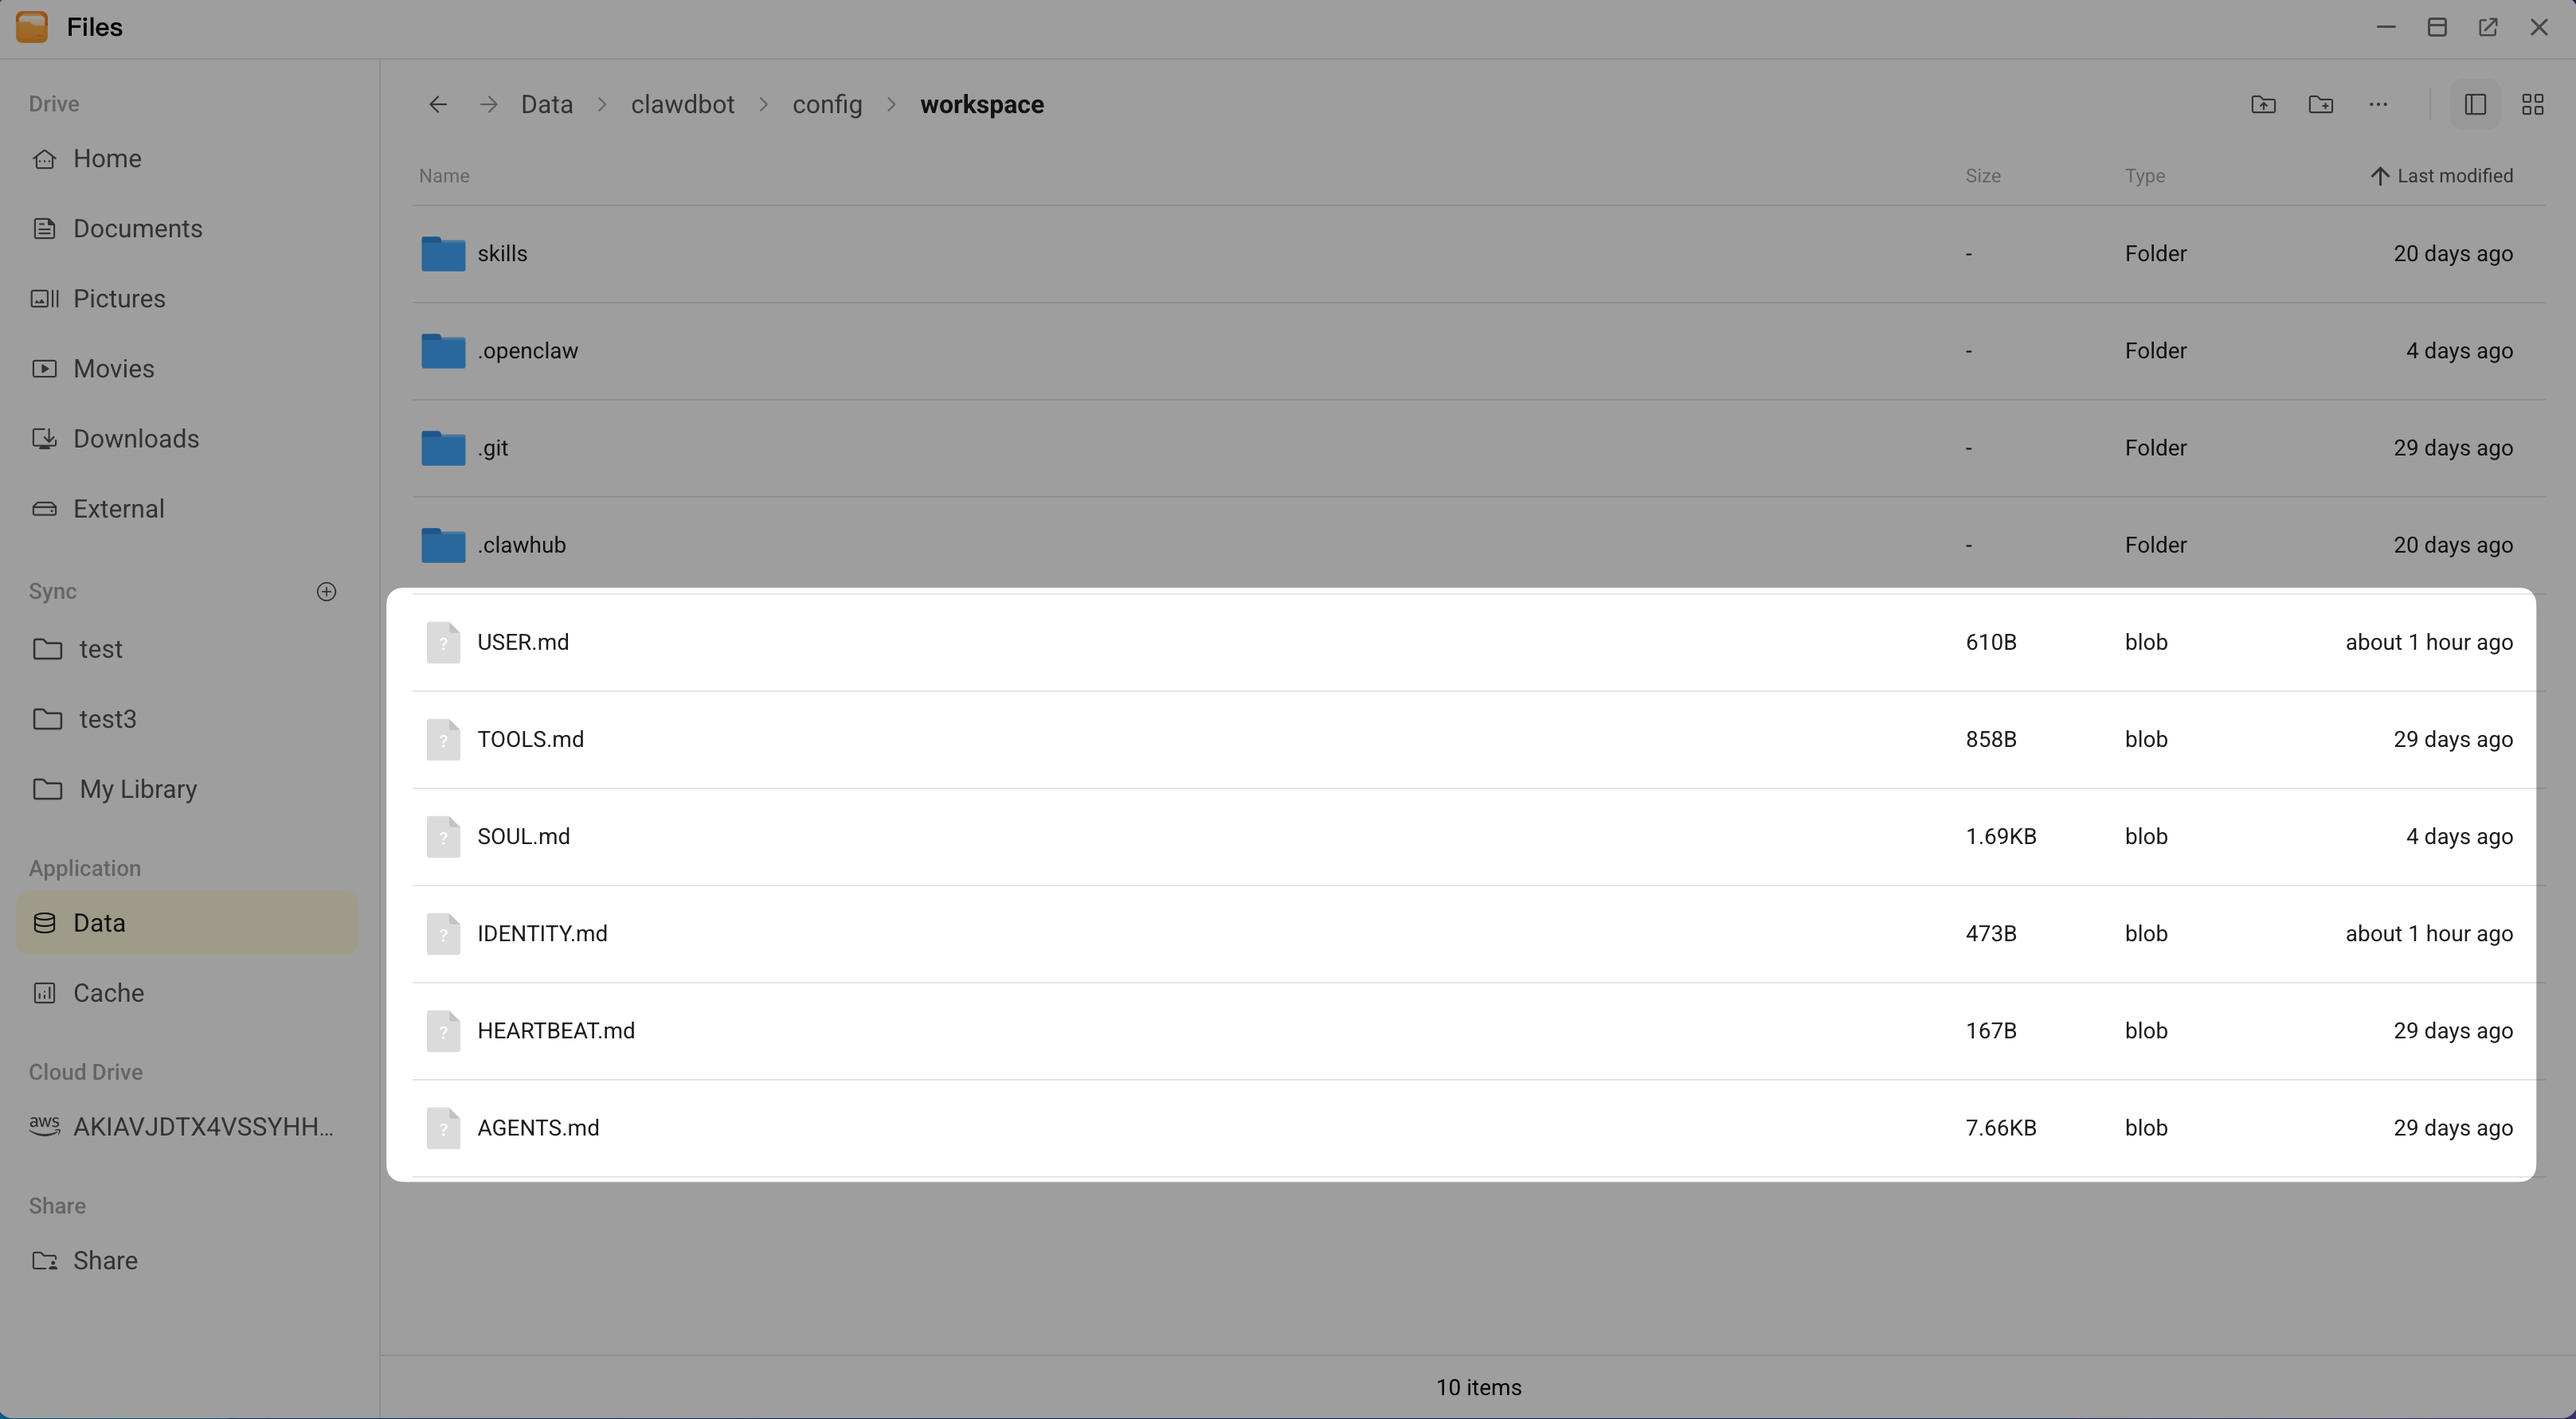
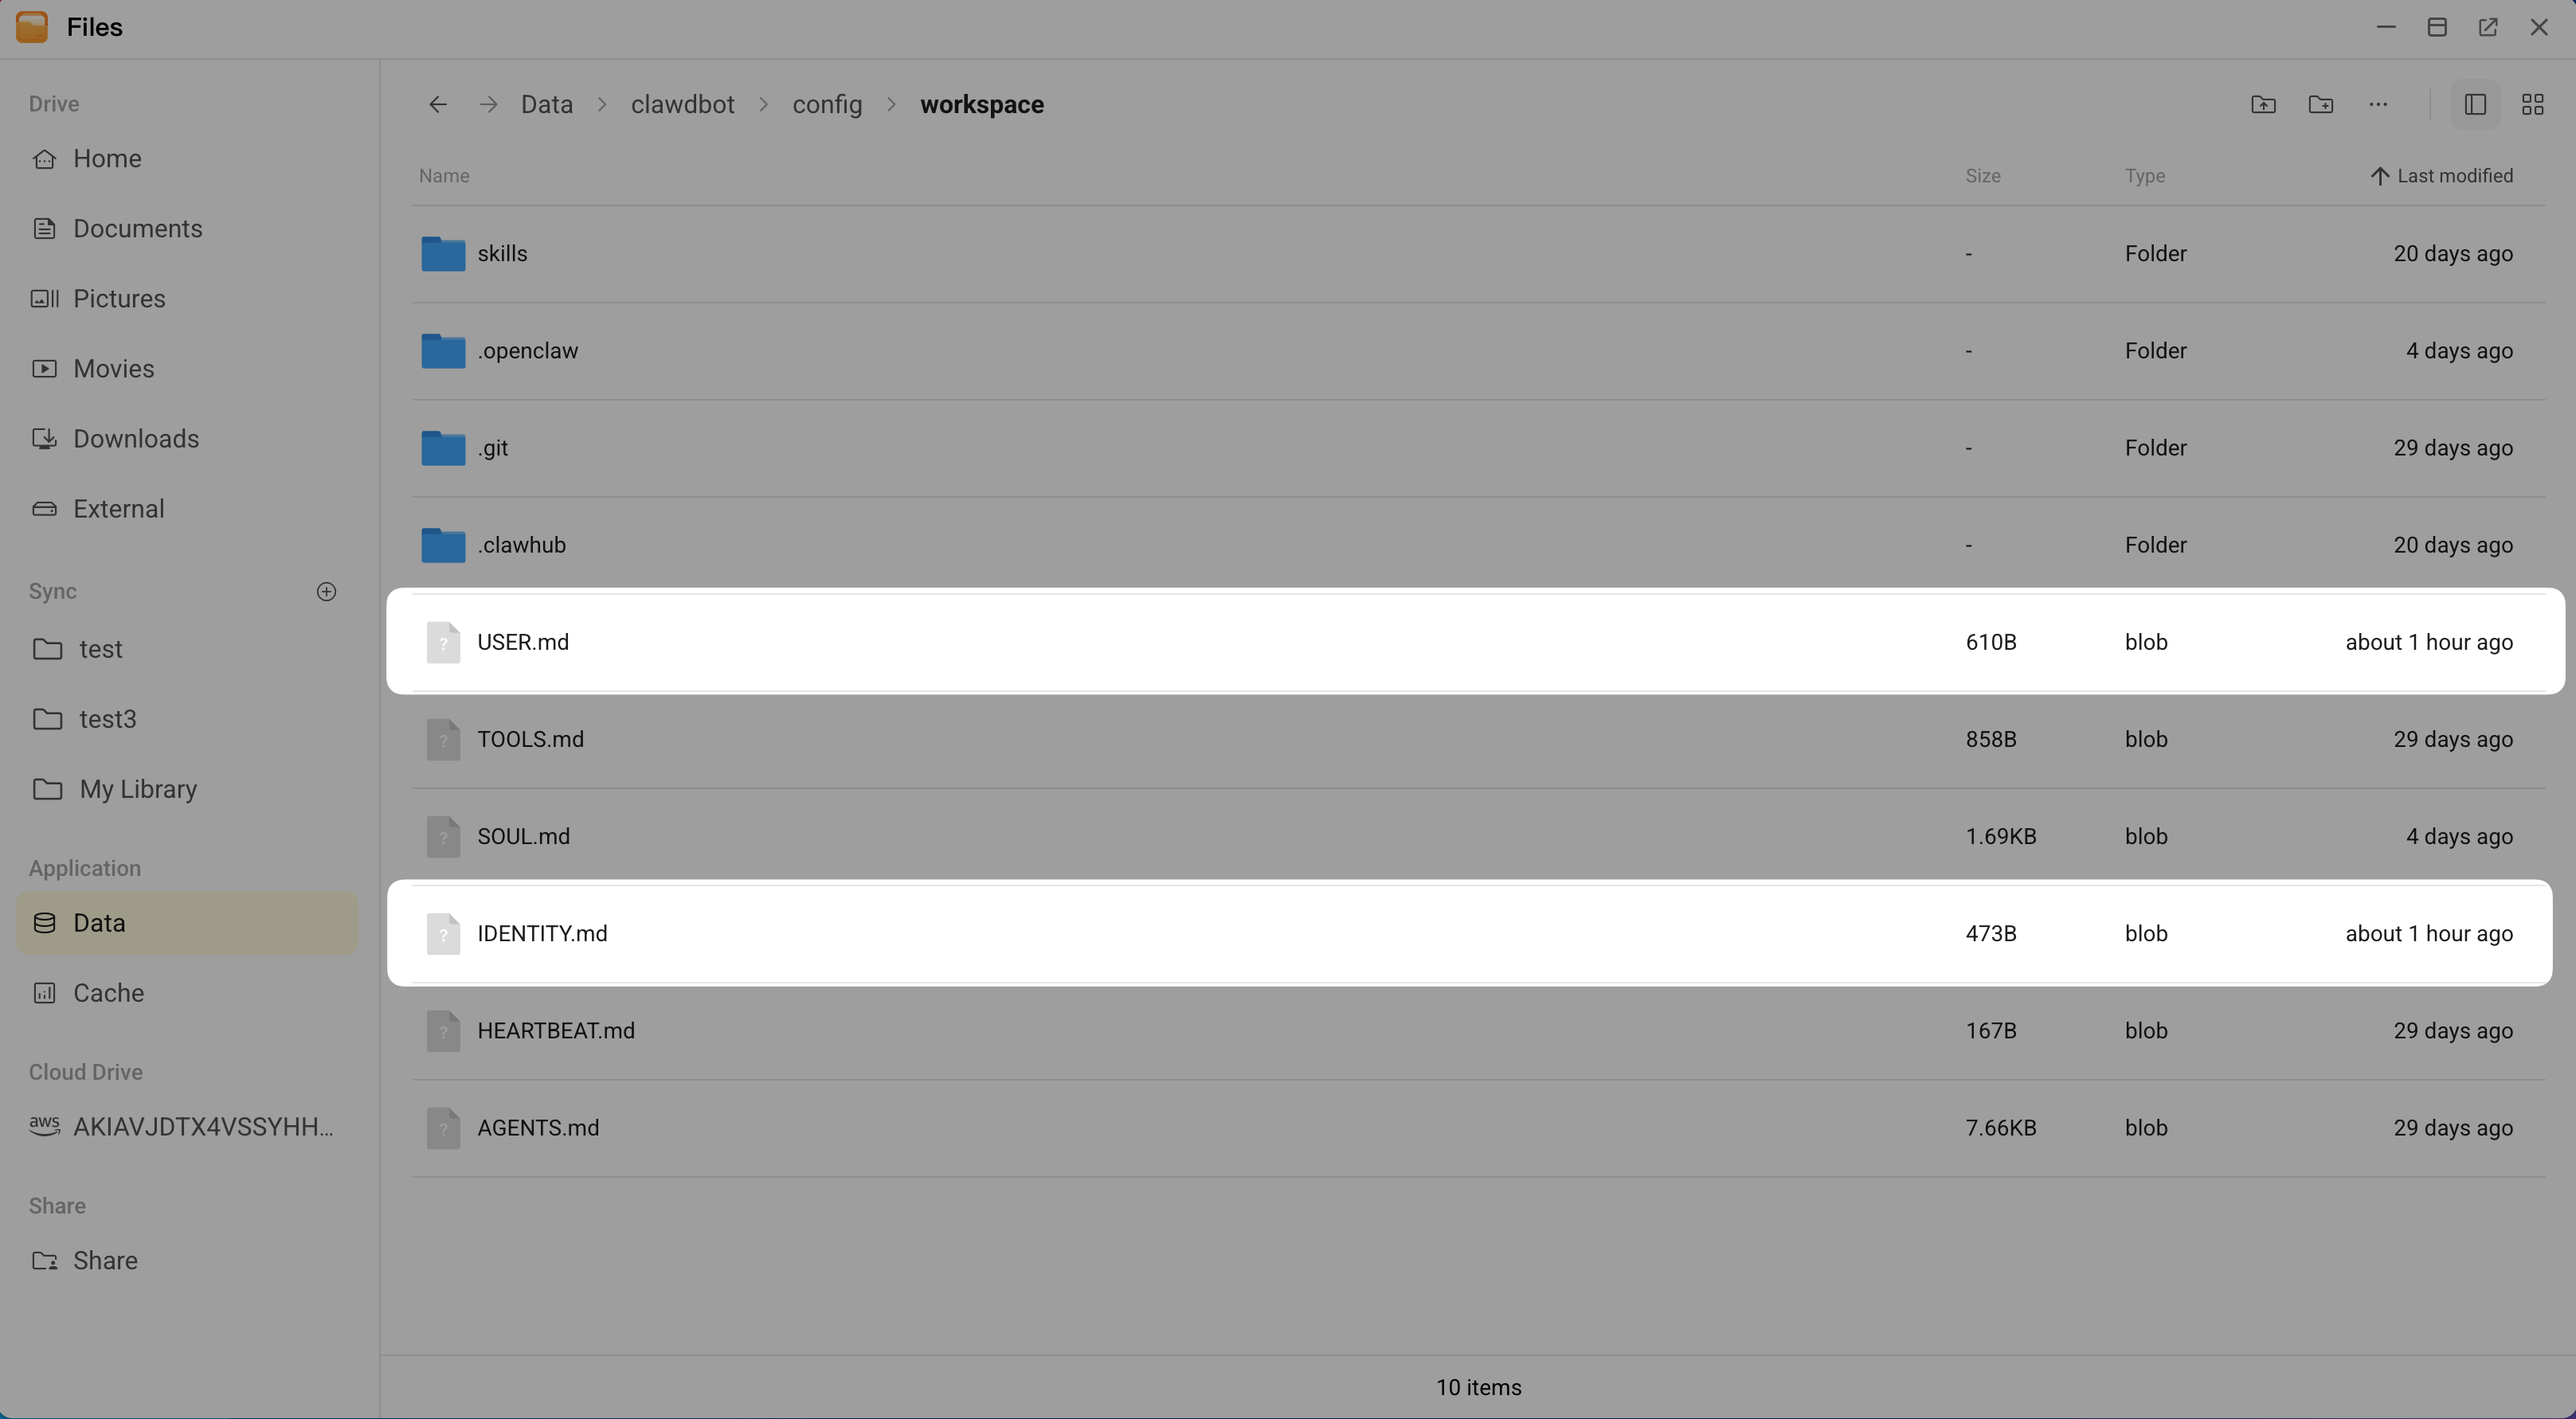
refinements for accuracy

Changed region(s): [[0.1249, 0.4012, 0.9994, 0.8333]]

diff --git a/docs/use-cases/openclaw.md b/docs/use-cases/openclaw.md
@@ -208,7 +208,9 @@ Connect the Control UI to the OpenClaw CLI to use the graphical dashboard.
 
 ## Personalize OpenClaw
 
-To make your OpenClaw bot more personalized, it is highly recommended to complete the persona setup process. This establishes the agent's identity, behavioral boundaries, and long-term memory.
+To make your OpenClaw bot more personalized, it is highly recommended to complete the persona setup process. 
+
+This process establishes the agent's identity, behavioral boundaries, and long-term memory through persona files. These files keep your agent's behavior consistent across all platforms and channels.
 
 1. In the Control UI, select **Chat** from the left sidebar.
 2. Ensure <i class="material-symbols-outlined">neurology</i> at the upper-right corner is enabled. This allows you to watch the agent think and edit persona files in real time.
@@ -236,19 +238,23 @@ To make your OpenClaw bot more personalized, it is highly recommended to complet
 
     ![Finish hatch agent](/images/manual/use-cases/openclaw-hatch-finish.png#bordered){width=90%}
 
-    :::tip Bootstrap deletion fails
-    If the agent fails to delete `BOOTSTRAP.md`, explicitly instruct it to do so in the chat. If it still fails, your model's context window might be full. Verify that your model supports at least 64K tokens (200K+ recommended), or temporarily switch to a model with better tool-calling capabilities.
-    :::
+6. (Optional) If the agent fails to delete `BOOTSTRAP.md`, explicitly instruct it to do so in the chat. If the issue persists, your configured context window might be full. 
 
-6. Verify your agent's persona files:
+    To resolve this, use one of the following methods:
+    - Select **Config** from the left sidebar, switch to the **Raw** tab, find the `models` section, and then increase the `contextWindow` value to at least 64K (200K is recommended). Note that a larger context window consumes more VRAM, so choose a value that your hardware can support. 
+    - Switch to a model with better tool-calling capabilities.
+
+7. Verify your agent's persona files are updated:
 
     a. Open Files from the Launchpad.
     
     b. Go to **Application** > **Data** > **clawdbot** > **config** > **workspace**.
     
-    c. Look for the generated persona files in `.md` format. These files keep your agent's behavior consistent across all platforms and channels.
+    c. Check the modified time of the `.md` files to identify which ones were recently updated, such as `USER.md` and `IDENTITY.md`. These files keep your agent's behavior consistent across all platforms and channels.
 
     ![Persona files generated by OpenClaw](/images/manual/use-cases/openclaw-persona-files.png#bordered){width=90%}
+
+    d. (Optional) Double-click a file to verify that it contains your newly established rules such as name, language style, and restrictions.
       
     :::tip Modify persona settings
     To change these settings in the future, use one of the following methods:
